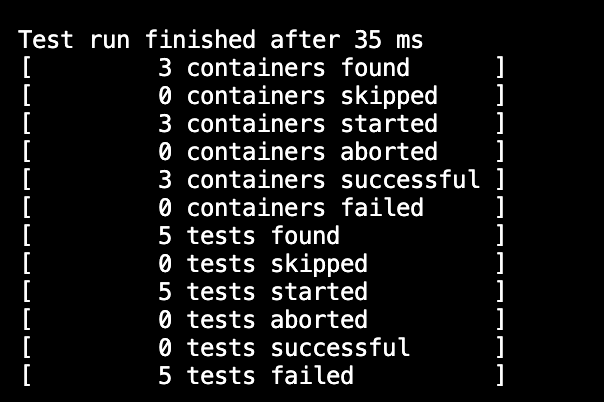
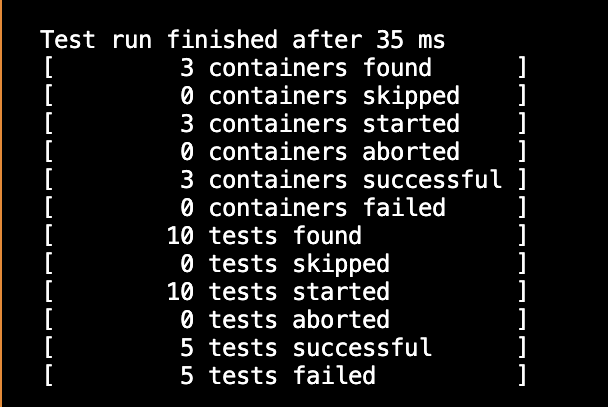
test passed

Changed region(s): [[0.0, 0.0, 0.8642, 1.0]]

diff --git a/LAB4/tic/tic_java_sample_code/test/TicTest.java b/LAB4/tic/tic_java_sample_code/test/TicTest.java
@@ -43,34 +43,34 @@ class TicTest {
 	void test6(){
         Tic board = new Tic(2 ,3);
         board.board[1][0]="X";
-		assertEquals(true,board.isempty(2,3));
+		assertEquals(false,board.isempty(2,3));
 	}
 
     @Test
 	void test7(){
         Tic board = new Tic(2 ,3);
         board.board[1][1]="X";
-		assertEquals(true,board.isempty(2,3));
+		assertEquals(false,board.isempty(2,3));
 	}
 
     @Test
 	void test8(){
         Tic board = new Tic(2 ,3);
         board.board[0][1]="X";
-		assertEquals(true,board.isempty(2,3));
+		assertEquals(false,board.isempty(2,3));
 	}
 
     @Test
 	void test9(){
         Tic board = new Tic(2 ,3);
         board.board[0][0]="X";
-		assertEquals(true,board.isempty(2,3));
+		assertEquals(false,board.isempty(2,3));
 	}
 
     @Test
 	void test10(){
         Tic board = new Tic(2 ,3);
         board.board[1][2]="X";
-		assertEquals(true,board.isempty(2,3));
+		assertEquals(false,board.isempty(2,3));
 	}
 }

diff --git a/LAB4/Readme.md b/LAB4/Readme.md
@@ -1,4 +1,4 @@
-<br>My first commit shows that all the test failed and then i commited the second time to show that the test passed<br>
+<br>For my part, My tests are used to make sure that the function is empty actually works, the first commit shows that all my test failed and then i commited the second time to show that all test passed<br>
 
 <br>Test failing<br>
  <br> ![image](images/1.png) <br>
